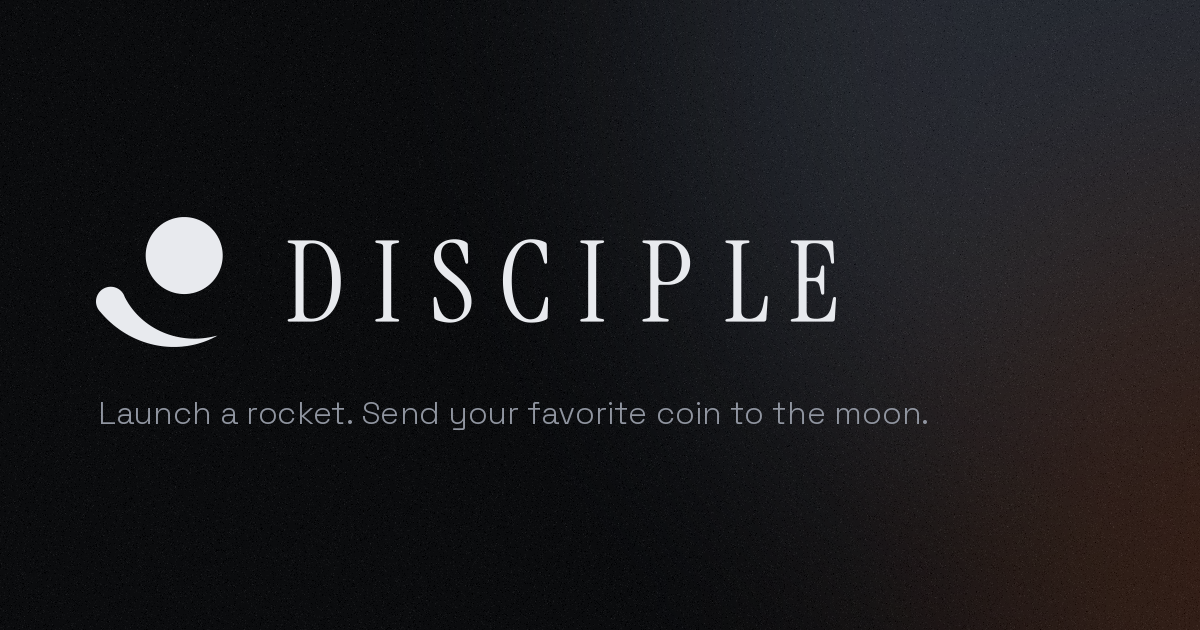
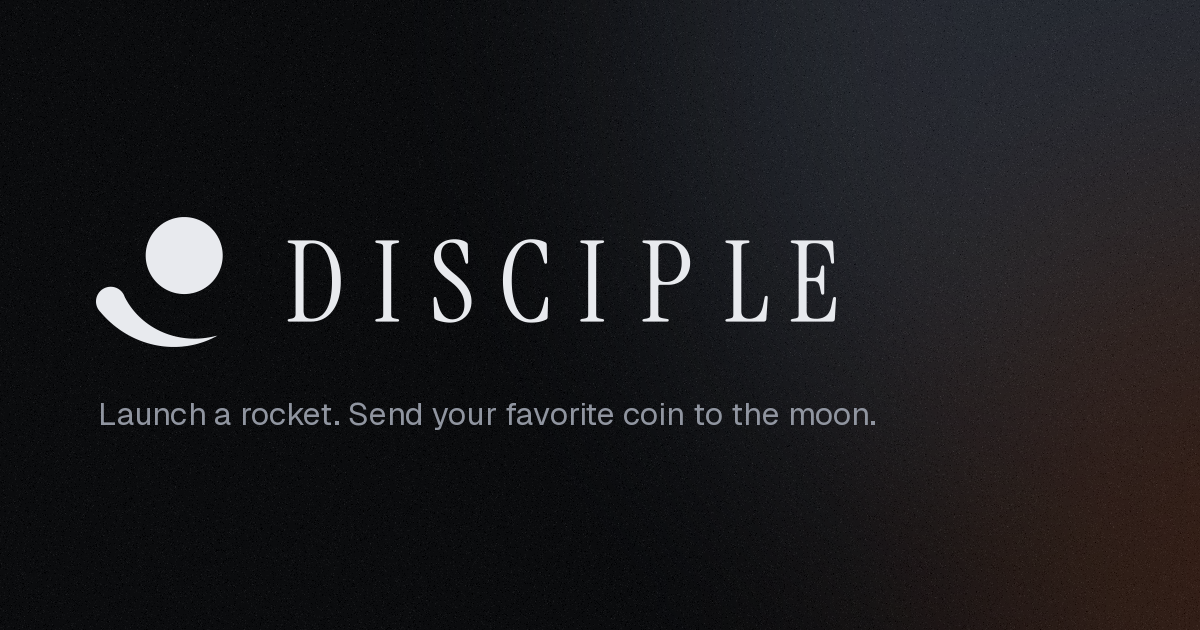
Brand Geist sync: updated OG + Geist-only UI tokens
Copy brand kit social/og-1200x630.png over the site OG/Twitter image.
Resync brand-tokens.css and Tailwind fontFamily with release/v1 tokens
(Geist UI sans, Geist Mono via --dsc-font-mono). No copy or color changes.

Changed region(s): [[0.0925, 0.6333, 0.7708, 0.6937]]

diff --git a/web/app/brand-tokens.css b/web/app/brand-tokens.css
@@ -1,4 +1,5 @@
-/* DISCIPLE brand release v1 tokens (Lunar Refined). Source: disciple-brand/release/v1/tokens/tokens.css */
+/* DISCIPLE brand release v1 tokens (Lunar Refined). Synced from disciple-brand/release/v1/tokens/{tokens.css,tokens.json}.
+   UI sans: Geist only. next/font CSS vars (--font-geist, --font-instrument-serif) prepended for self-hosted loading. */
 :root {
   --dsc-bg: #0B0C0E;
   --dsc-surface: #16181C;
@@ -11,7 +12,7 @@
   --dsc-up: #5FF0A0;
   --dsc-down: #F0307F;
   --dsc-warning: #FFD84D;
-  --dsc-font-display: var(--font-instrument-serif), 'Instrument Serif', Georgia, serif;
+  --dsc-font-display: var(--font-instrument-serif), 'Instrument Serif', serif;
   --dsc-font-ui: var(--font-geist), 'Geist', system-ui, sans-serif;
   --dsc-font-mono: 'Geist Mono', ui-monospace, monospace;
 }

diff --git a/web/tailwind.config.ts b/web/tailwind.config.ts
@@ -25,10 +25,11 @@ const config: Config = {
         warning: "var(--dsc-warning)",
       },
       fontFamily: {
+        // Synced from disciple-brand/release/v1/tokens/tailwind.config.snippet.js
         display: ["var(--dsc-font-display)"],
         sans: ["var(--dsc-font-ui)"],
         ui: ["var(--dsc-font-ui)"],
-        mono: ["ui-monospace", "Menlo", "Consolas", "monospace"],
+        mono: ["var(--dsc-font-mono)"],
       },
     },
   },
